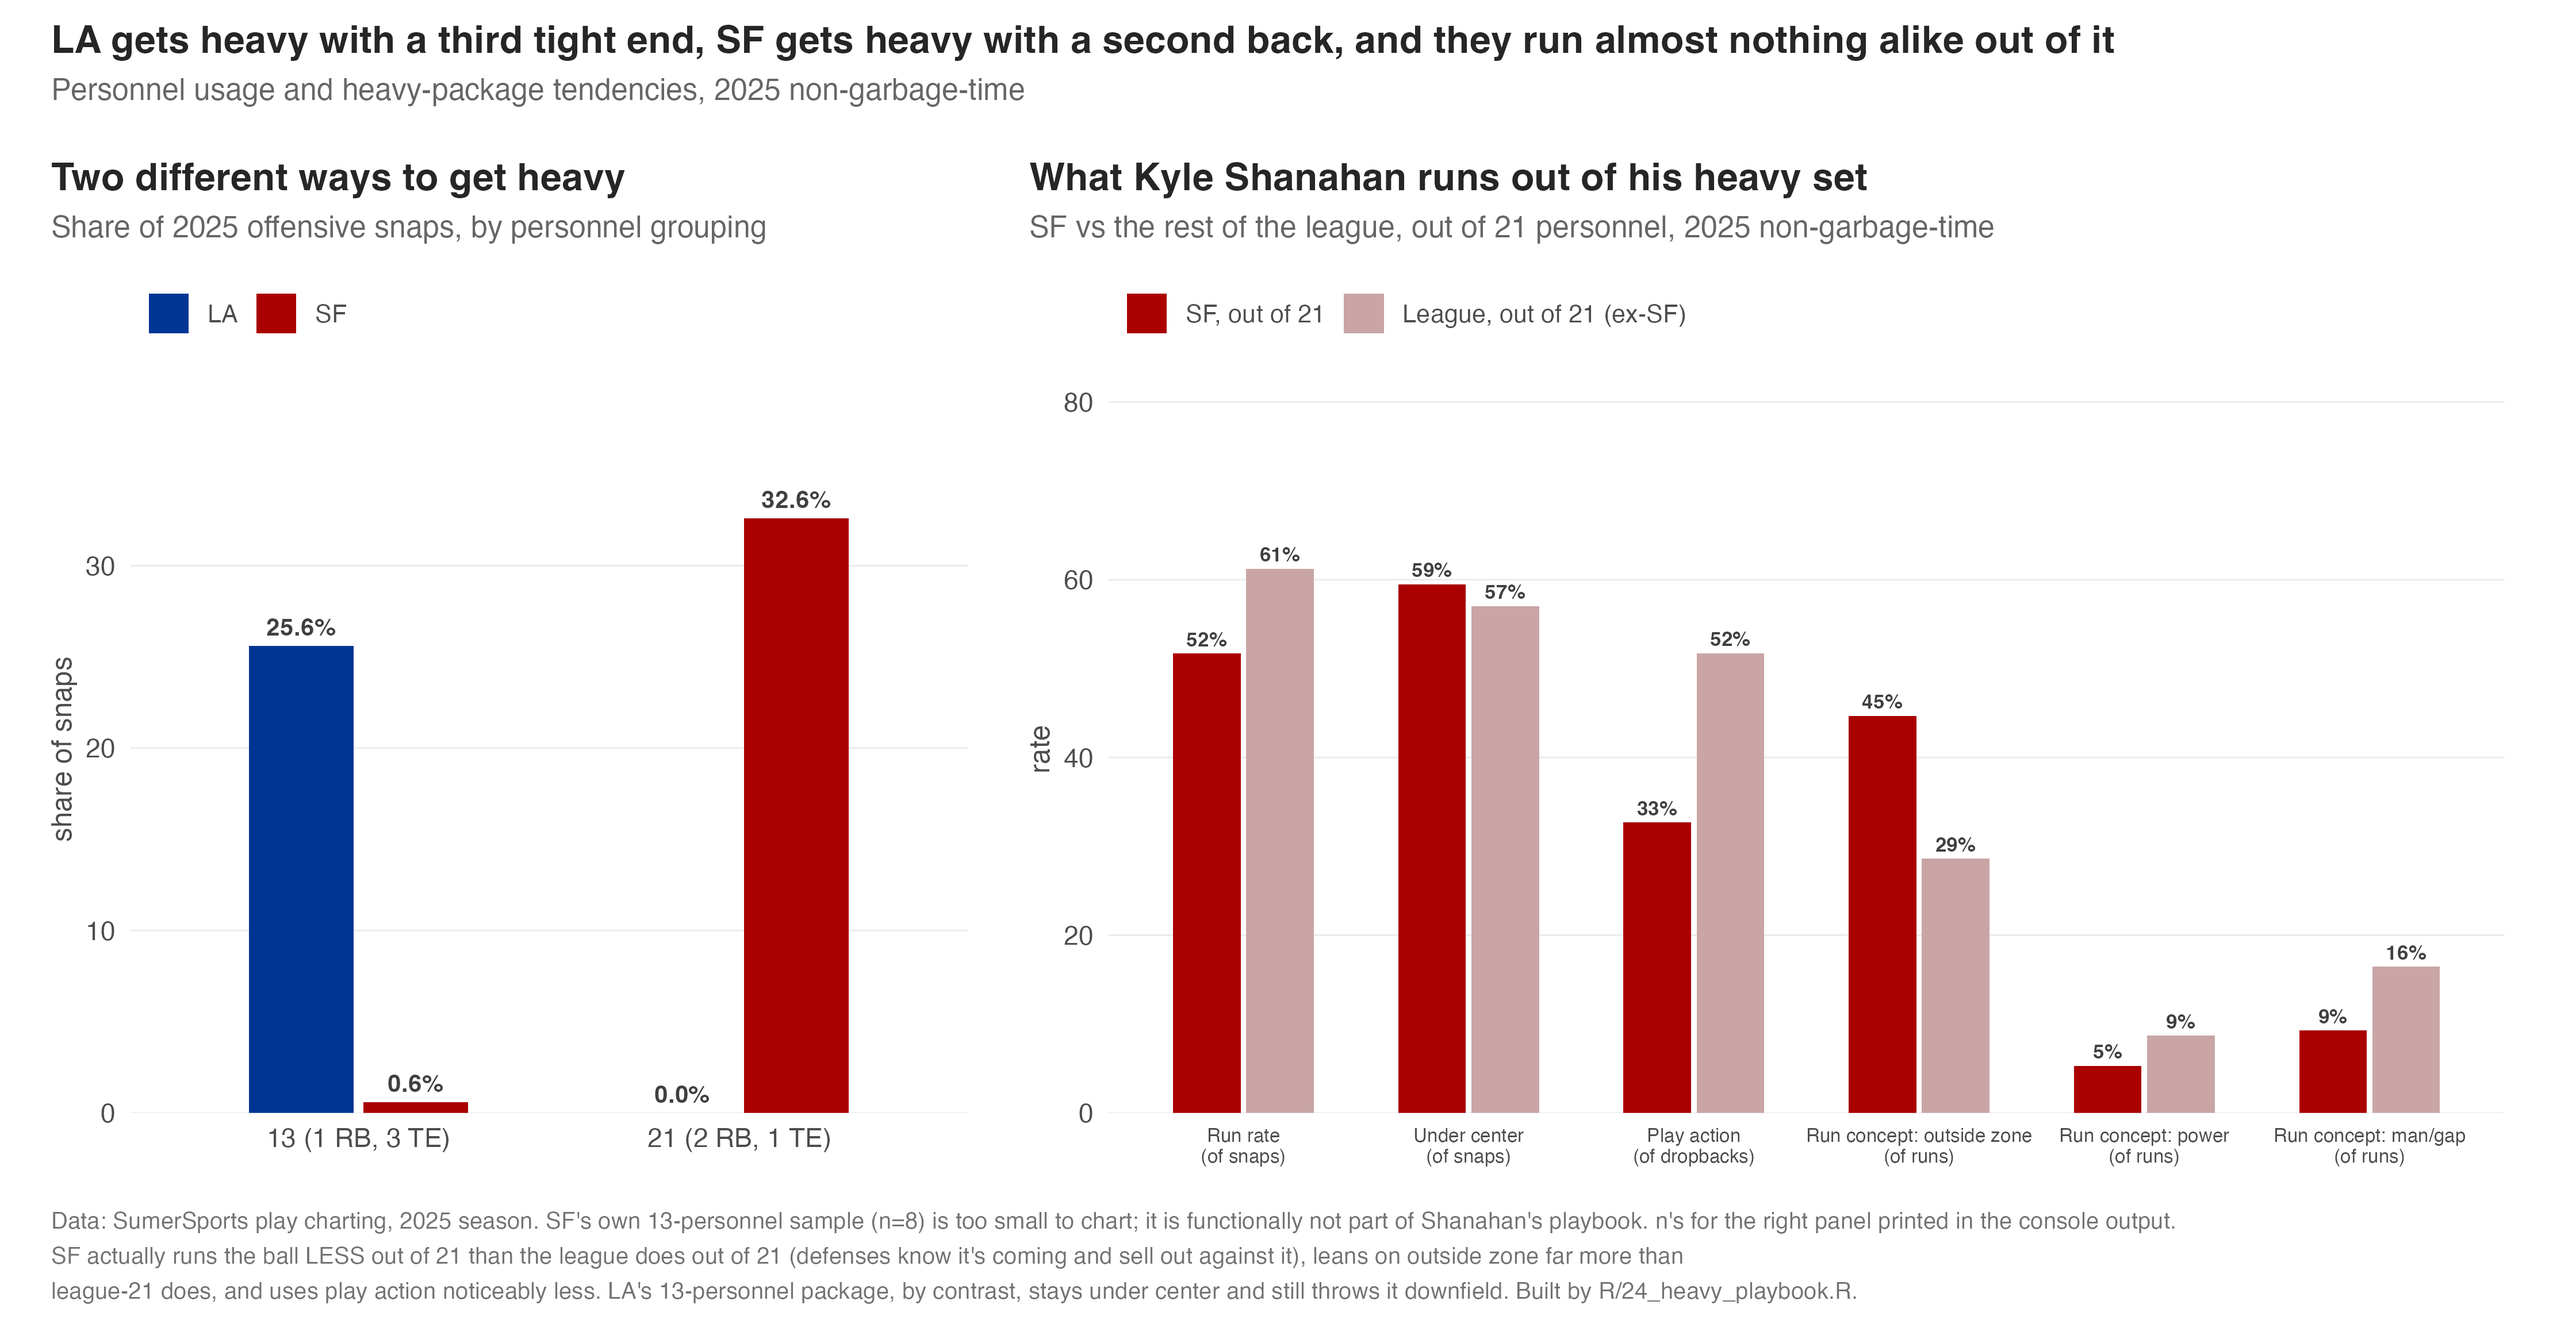
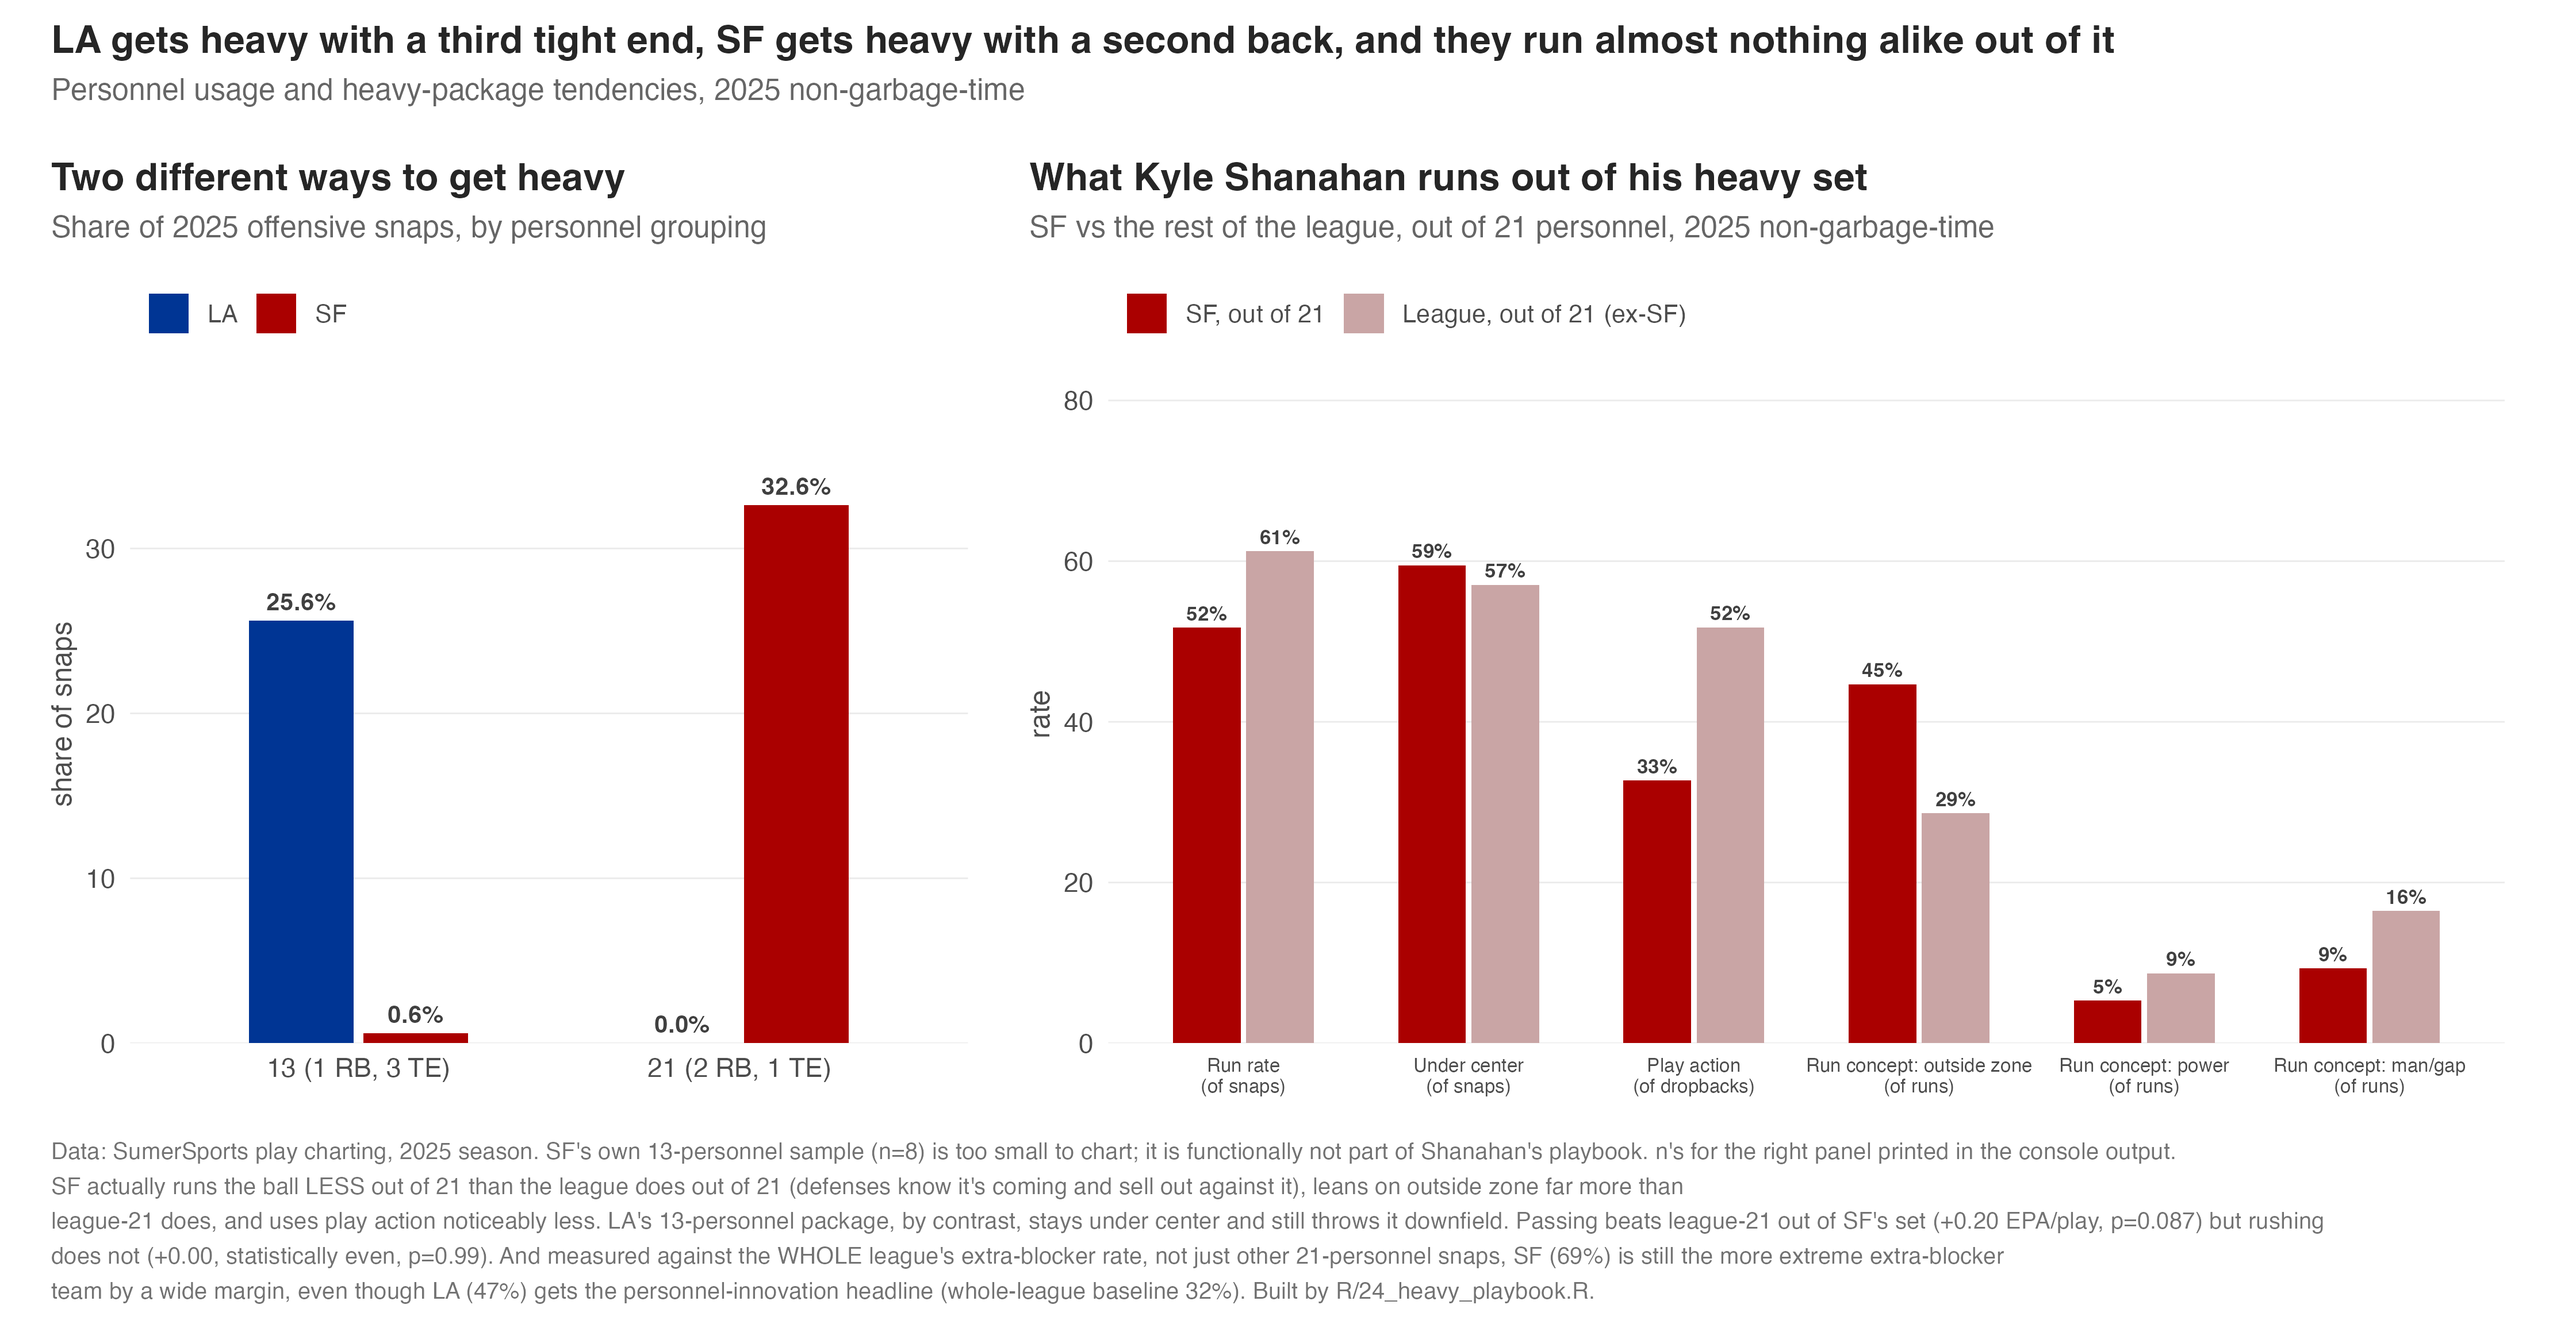
R/24 v2: extra-blocker reframe (SF 69% vs league 32%), direct league-is-bad-at-13 test, cross-validated additions
Numbers re-verified against fresh run (script output authoritative over the
builder's message where they drifted). Pre-snap files deliberately excluded
pending that builder's report and verification.

diff --git a/docs/index.html b/docs/index.html
@@ -325,7 +325,7 @@
         <img src="figures/rams_13_playbook.png" alt="Ranked differences between the Rams and the league out of 13 personnel across nineteen playbook metrics, led by man-gap run blocking, under-center rate and inside-zone play-action looks.">
         <figcaption>The Rams against the league, out of the same personnel. Built by R/24.</figcaption>
       </figure>
-      <p class="row found"><span class="lab">And Kyle does not play 13 at all.</span> Eight snaps all season. His heavy package is 21 with the fullback, a third of his snaps, from which he throws more than the league throws out of 21, runs outside zone at +16 points over the league, and uses less play action than anyone's 21. Two mutually exclusive routes to heavy: LA adds a third tight end, SF adds a back.</p>
+      <p class="row found"><span class="lab">And Kyle does not play 13 at all.</span> Eight snaps all season. His heavy package is 21 with the fullback, a third of his snaps, from which he throws more than the league throws out of 21, runs outside zone at +16 points over the league, and uses less play action than anyone's 21. Two mutually exclusive routes to heavy: LA adds a third tight end, SF adds a back. And measured against the whole league's extra-blocker rate on runs, SF at 69% is the more extreme extra-blocker team (2.2 times the league's 32%), even though LA at 47% gets the personnel-innovation headline. Michael's "everyone else kinda sucked at this" also now has its direct test: league passing out of 13 is negative while LA sits at +0.44 (p = 0.0003), and league running out of 13 is well underwater while LA is positive. SF's version works less cleanly: his 21-personnel passing beats the league's, but his running out of it is statistically even with everyone else's despite the outside-zone identity.</p>
       <figure>
         <img src="figures/kyle_heavy.png" alt="Two panels: LA and SF take opposite heavy-personnel routes, 13 versus 21, and what San Francisco runs out of 21 versus the league.">
         <figcaption>What Kyle does instead. Built by R/24.</figcaption>

diff --git a/README.md b/README.md
@@ -66,7 +66,8 @@ the new work.
 | The 2pt card is a late-game religion | obeyed 99.6% in Q4/OT, 48.6% before |
 | Coach worth: the ladder | elite tier +2.5-4.2 vs pedigree, under 3 vs payroll, ~1 win vs the market; the 3-4-win coach only exists on the loosest ruler |
 | Rams 13: different playbook | man/gap runs 40.6% vs league 17.7%, zero power all season, 89% under center, PA fakes inside zone at 4x league |
-| Kyle's heavy is 21, not 13 | 8 snaps of 13 all year; out of 21 he throws MORE than league and play-fakes less |
+| Kyle's heavy is 21, not 13 | 8 snaps of 13 all year; out of 21 he throws MORE than league and play-fakes less; 69% extra-blocker runs, 2.2x the league |
+| The league really is bad out of 13 | league-13 passing negative, running well underwater; LA positive on both (p = 0.0003 / 0.01) |
 | Shanahan did not adapt in 2025 | all three same-caller transitions at the 4th-17th pctile of league drift; McVay's pivot at the 98th |
 
 ## Scripts
